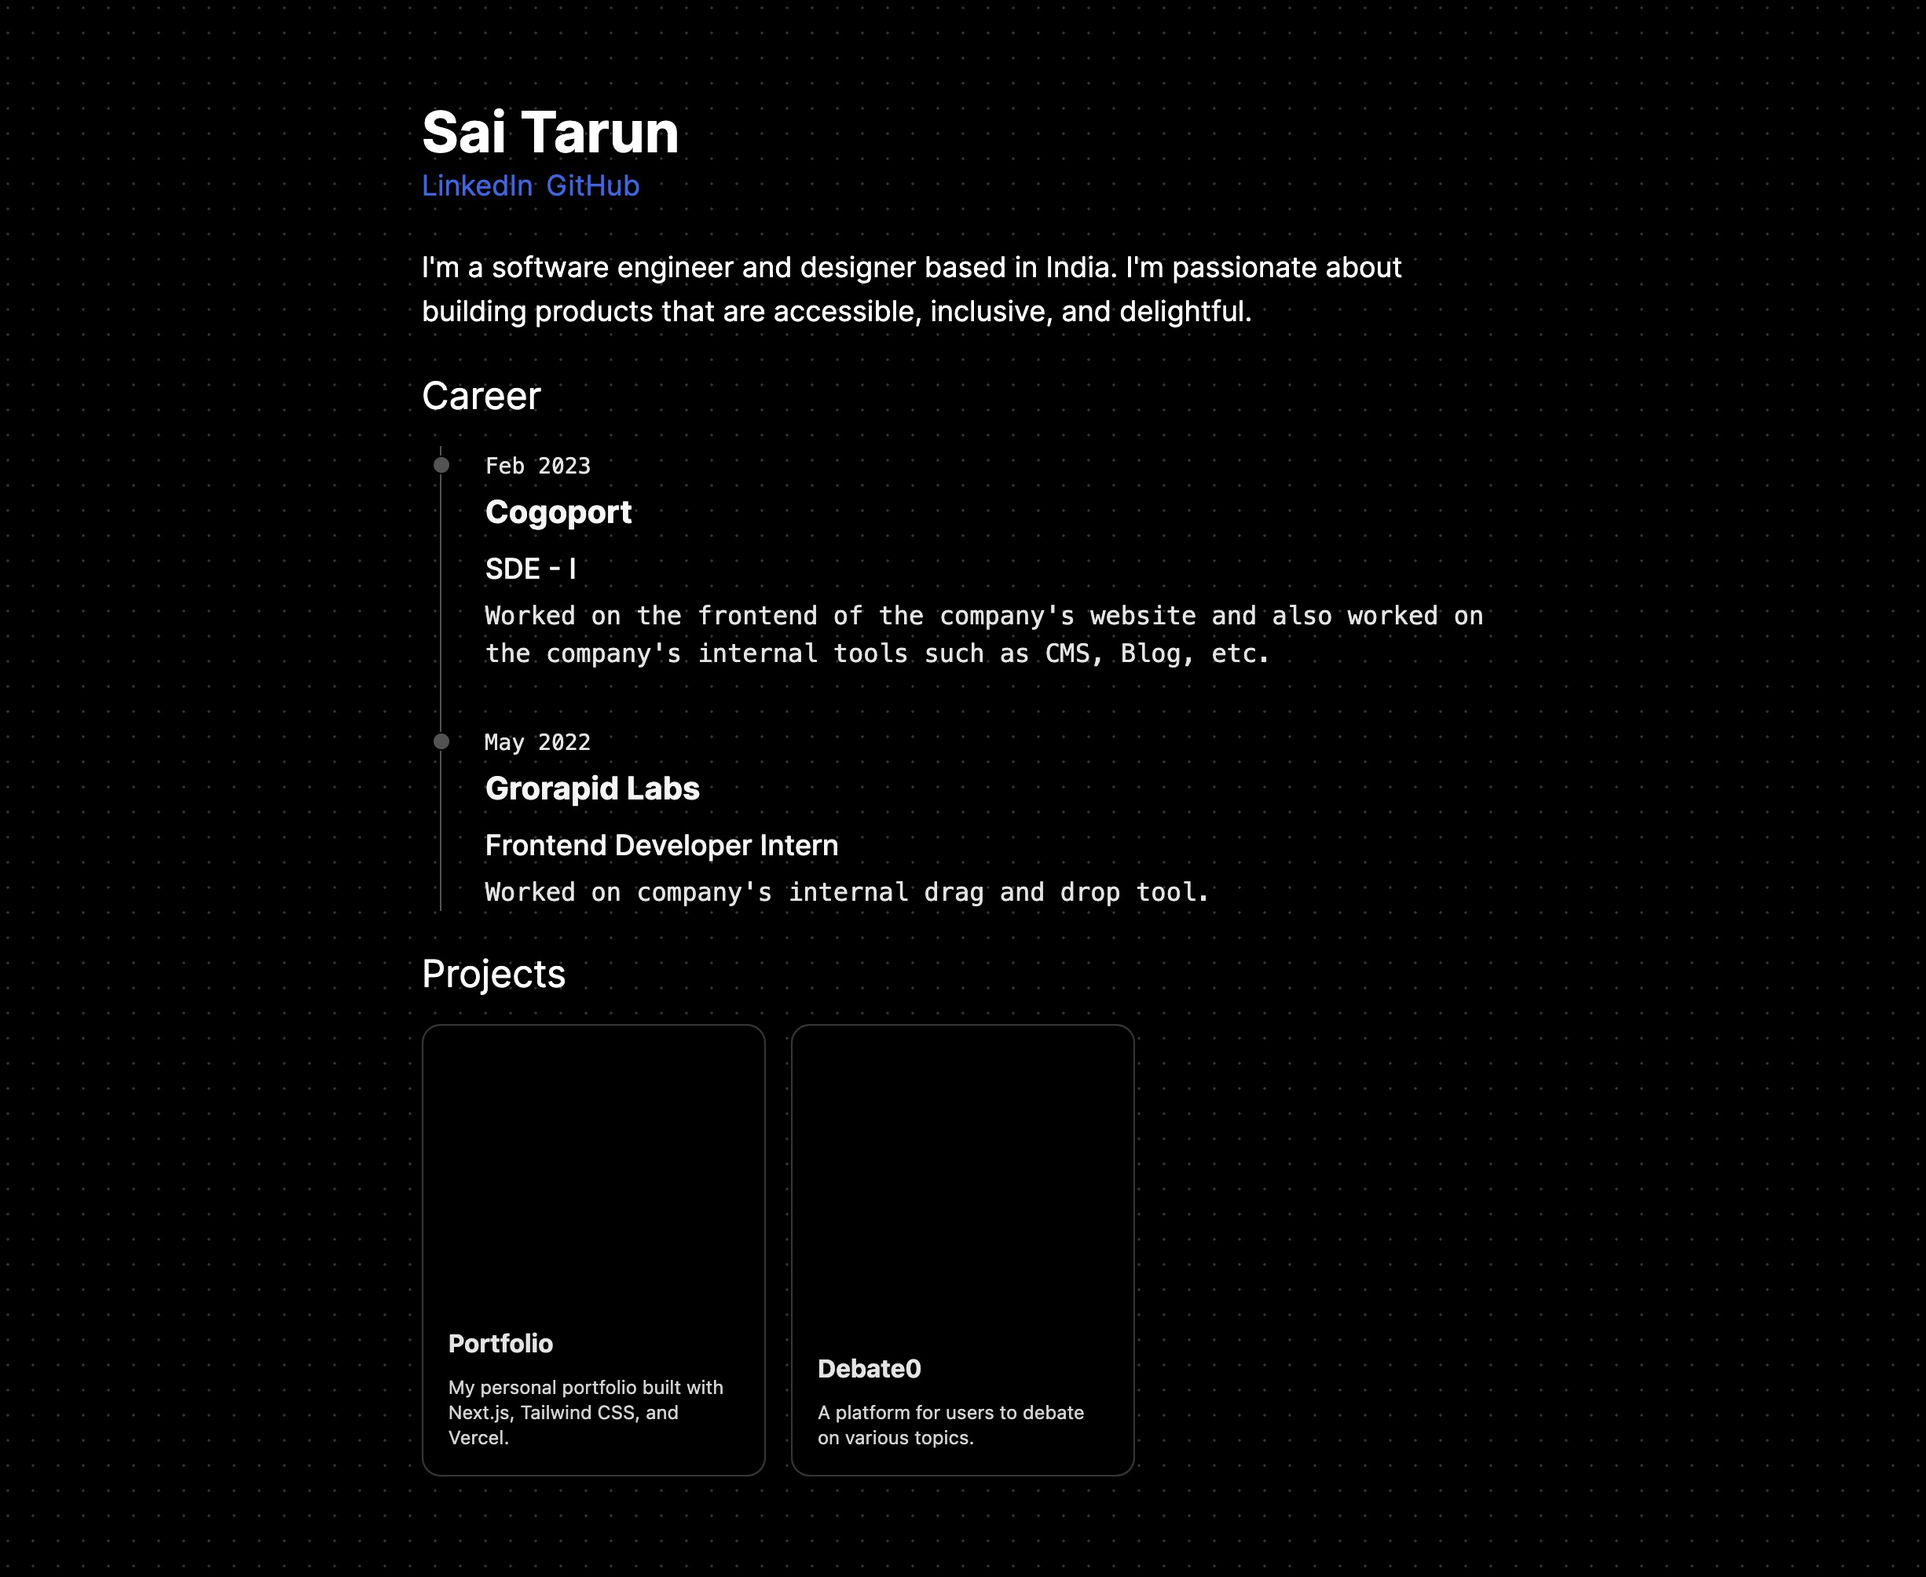
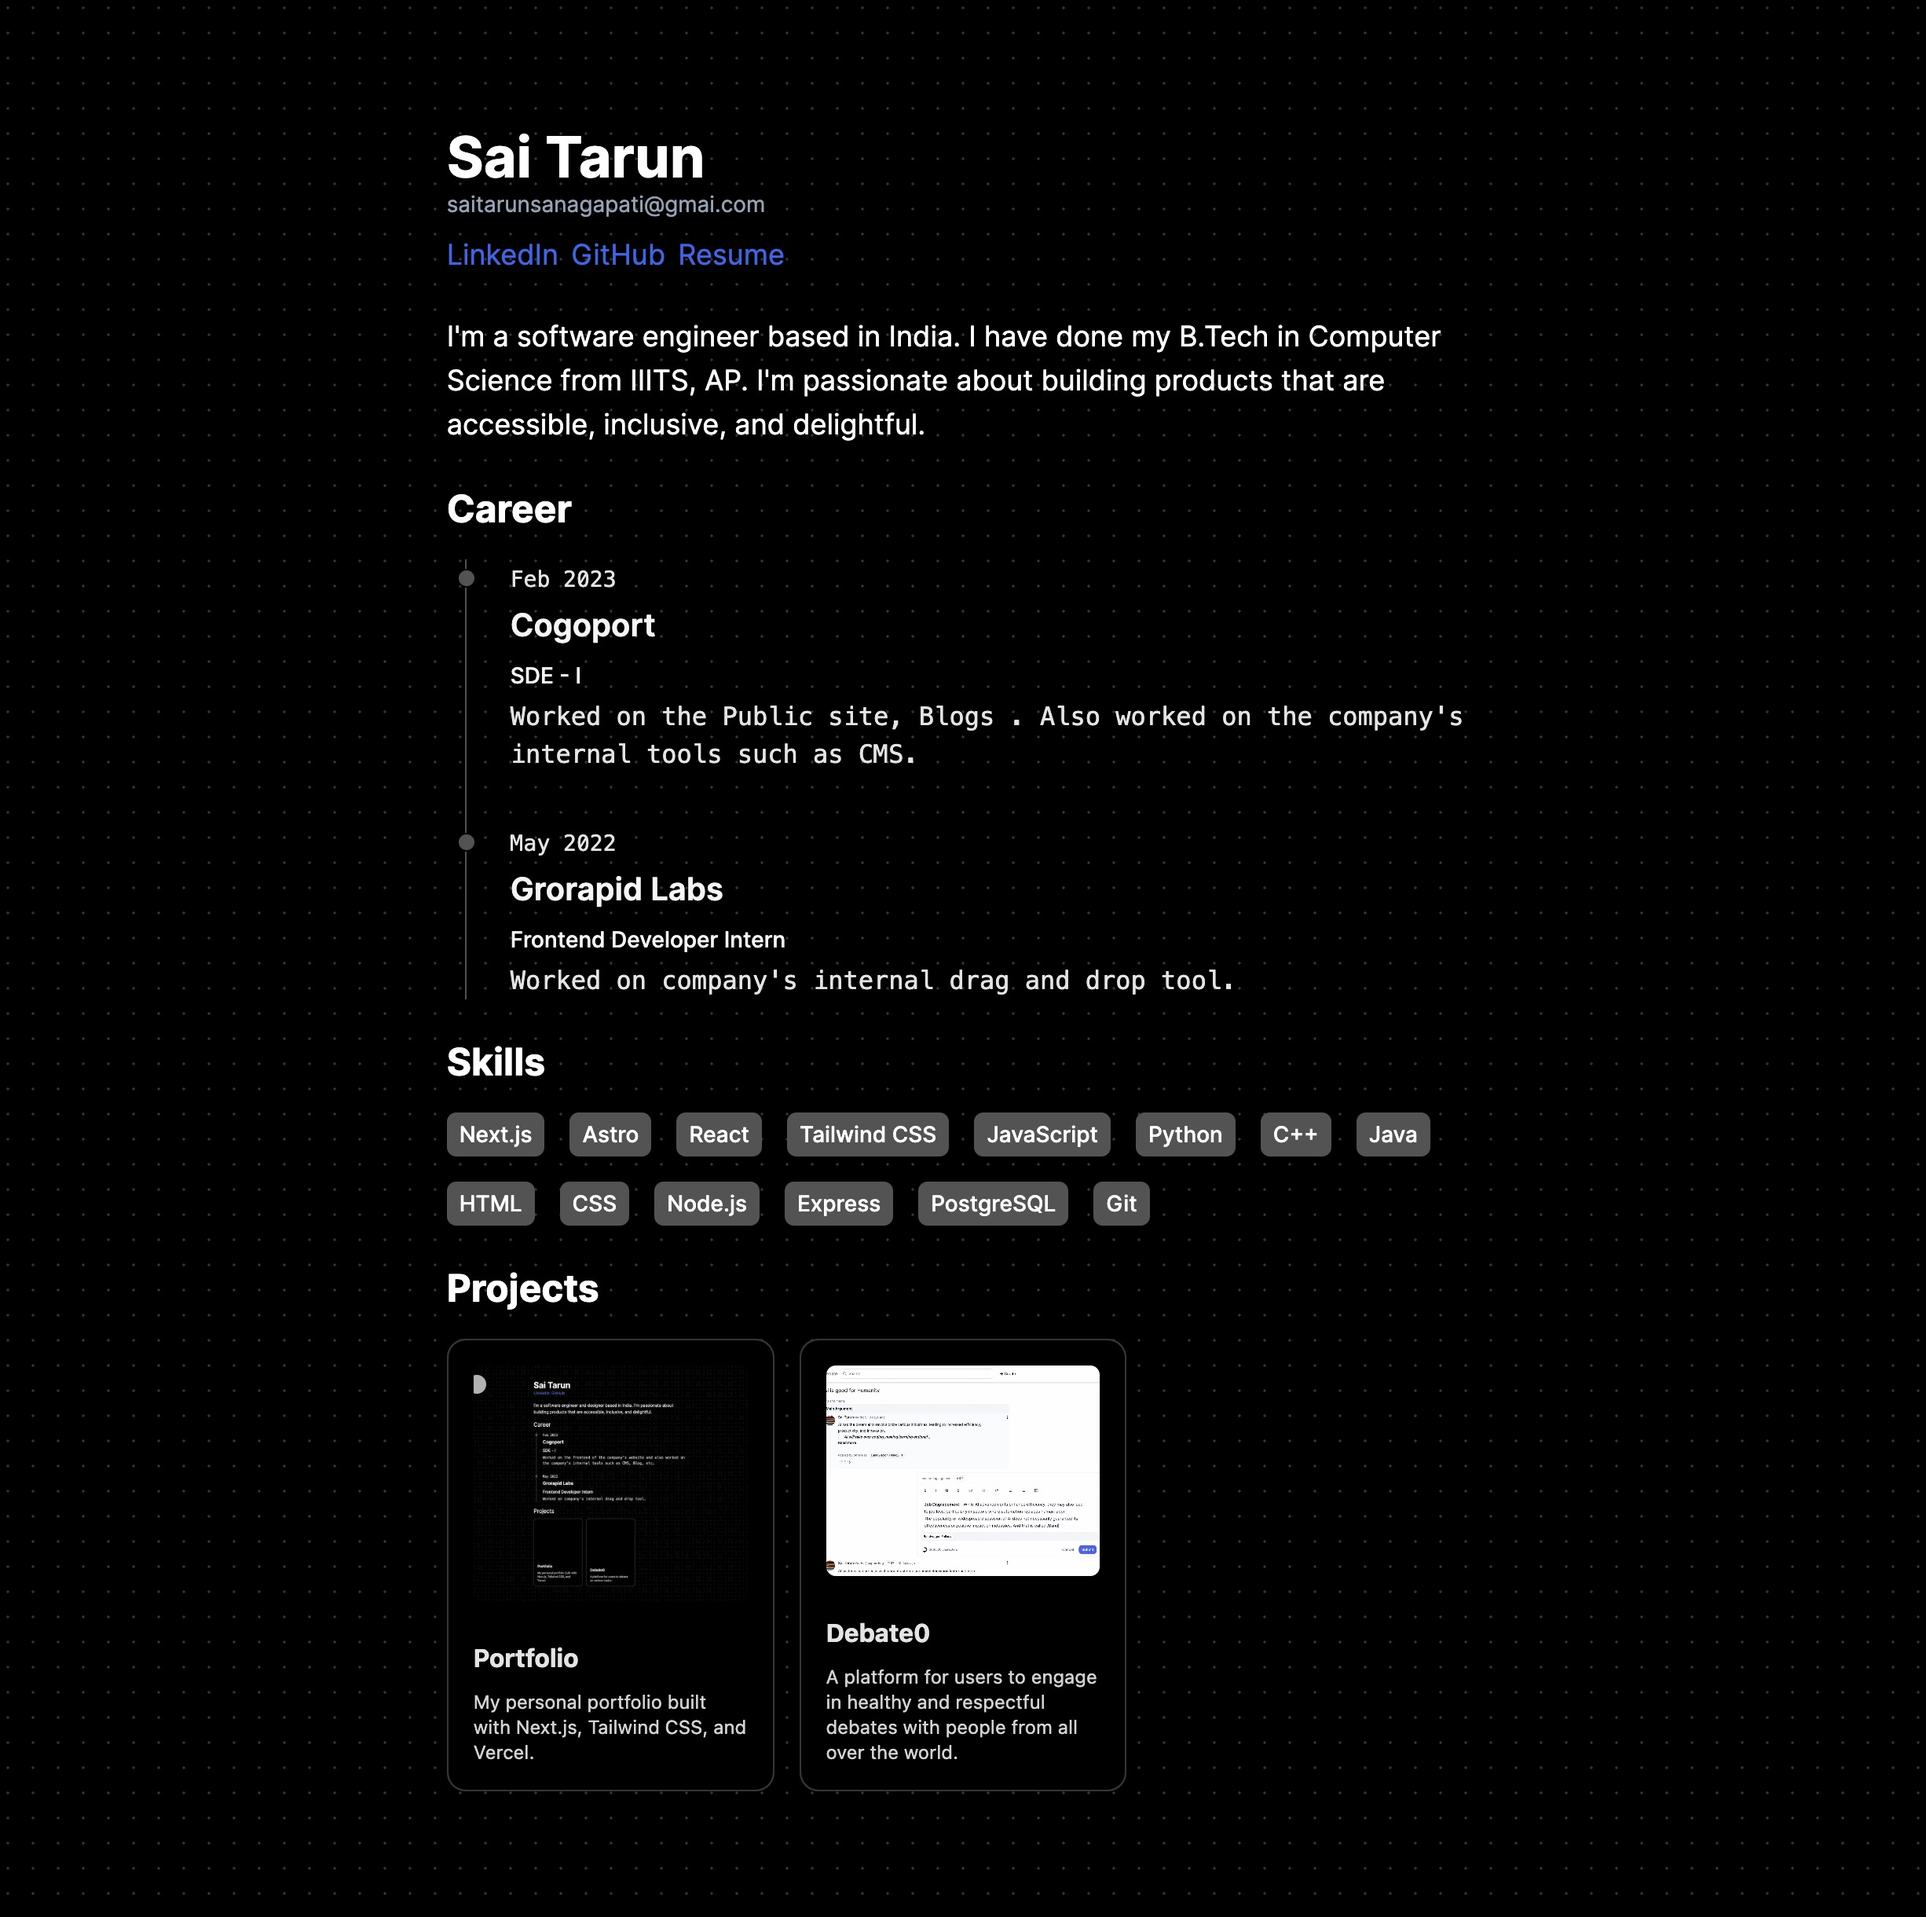
Update image style in Clone component and adjust layout in RootLayout

Changed region(s): [[0.217, 0.0618, 0.7749, 0.6793], [0.217, 0.7102, 0.5889, 0.9263], [0.4339, 0.494, 0.6199, 0.5249]]

diff --git a/src/app/page.js b/src/app/page.js
@@ -10,7 +10,10 @@ export default function Home() {
     <main className="flex flex-col gap-y-6 ">
       <div>
         <h1 className="text-4xl font-bold">Sai Tarun</h1>
-        <div className="flex gap-x-2">
+        <p className="text-sm md:text-md text-slate-400">
+          saitarunsanagapati@gmai.com
+        </p>
+        <div className="flex gap-x-2 mt-2 flex-wrap">
           {[
             {
               link: "https://www.linkedin.com/in/saitaruns",
@@ -19,6 +22,10 @@ export default function Home() {
             {
               link: "https://github.com/saitaruns",
               text: "GitHub",
+            },
+            {
+              link: "https://drive.google.com/file/d/10VdN18HVUD2QdS7Ycjwms1Hce6xjkDUh/view?usp=sharing",
+              text: "Resume",
             },
           ].map(({ link, text }) => (
             <Link
@@ -32,16 +39,15 @@ export default function Home() {
           ))}
         </div>
       </div>
-      {/* <hr className="my-4 w-full" /> */}
 
       <p className="text-lg">
-        I&apos;m a software engineer and designer based in India. I&apos;m
-        passionate about building products that are accessible, inclusive, and
-        delightful.
+        I&apos;m a software engineer based in India. I have done my B.Tech in
+        Computer Science from IIITS, AP. I&apos;m passionate about building
+        products that are accessible, inclusive, and delightful.
       </p>
 
       <section className="flex flex-col gap-y-4">
-        <h2 className="text-2xl">Career</h2>
+        <h2 className="text-2xl font-bold">Career</h2>
         <ol class="relative border-s dark:border-neutral-600 border-neutral-400 ml-[11.5px] flex flex-col gap-8">
           {[
             {
@@ -49,7 +55,7 @@ export default function Home() {
               title: "Cogoport",
               role: "SDE - I",
               description:
-                "Worked on the frontend of the company's website and also worked on the company's internal tools such as CMS, Blog, etc.",
+                "Worked on the Public site, Blogs . Also worked on the company's internal tools such as CMS.",
             },
             {
               time: "May 2022",
@@ -63,10 +69,10 @@ export default function Home() {
               <time class="text-sm font-mono leading-none text-neutral-800 dark:text-neutral-200">
                 {time}
               </time>
-              <h2 class="text-xl mt-1 font-bold text-neutral-900 dark:text-neutral-100 block cogo">
+              <h2 class="text-xl mt-1 font-semibold text-neutral-900 dark:text-neutral-100 block cogo">
                 {title}
               </h2>
-              <h4 class="text-lg mt-2 font-medium dark:text-neutral-100 text-neutral-900 block">
+              <h4 class="text-sm mt-2 font-medium dark:text-neutral-100 text-neutral-900 block">
                 {role}
               </h4>
               <p class="mt-1 dark:text-neutral-200 text-neutral-800 text-pretty font-mono">
@@ -78,7 +84,38 @@ export default function Home() {
       </section>
 
       <section className="flex flex-col gap-y-4">
-        <h2 className="text-2xl">Projects</h2>
+        <h2 className="text-2xl font-bold">Skills</h2>
+        <div className="flex flex-wrap gap-4">
+          {[
+            "Next.js",
+            "Astro",
+            "React",
+            "Tailwind CSS",
+            "JavaScript",
+            "Python",
+            "C++",
+            "Java",
+            "HTML",
+            "CSS",
+            "Node.js",
+            "Express",
+            "PostgreSQL",
+            "Git",
+          ].map((skill) => (
+            <span
+              key={skill}
+              className={cn(
+                "px-2 py-1 text-sm font-medium rounded-md dark:bg-neutral-600 bg-neutral-400"
+              )}
+            >
+              {skill}
+            </span>
+          ))}
+        </div>
+      </section>
+
+      <section className="flex flex-col gap-y-4">
+        <h2 className="text-2xl font-bold">Projects</h2>
         <BentoGrid className="max-w-4xl mx-auto md:auto-rows-[20rem]">
           {[
             {
@@ -93,7 +130,8 @@ export default function Home() {
             },
             {
               title: "Debate0",
-              description: "A platform for users to debate on various topics.",
+              description:
+                "A platform for users to engage in healthy and respectful debates with people from all over the world.",
               header: (
                 <Link
                   href={"https://debate-xi.vercel.app/arg/197"}
@@ -125,7 +163,7 @@ export default function Home() {
               title={item.title}
               description={item.description}
               header={item.header}
-              className={cn(item.className)}
+              // className={i === 1 ? "md:col-span-2" : ""}
             />
           ))}
         </BentoGrid>

diff --git a/src/app/layout.js b/src/app/layout.js
@@ -17,7 +17,7 @@ export default function RootLayout({ children }) {
       <body
         className={cn(
           inter.className,
-          "dark:bg-dot-white/[0.2] bg-dot-black/[0.2] p-16 md:w-8/12 mx-auto "
+          "dark:bg-dot-white/[0.2] bg-dot-black/[0.2] p-10 md:p-20 md:w-8/12 mx-auto "
         )}
       >
         {children}

diff --git a/src/app/components/clone.jsx b/src/app/components/clone.jsx
@@ -79,7 +79,9 @@ const Clone = () => {
         alt="Debate0"
         className=" rounded-md"
         fill
-        style={{}}
+        style={{
+          objectFit: "cover",
+        }}
       />
       <div
         style={{
